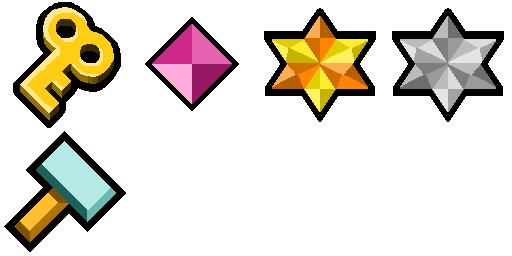
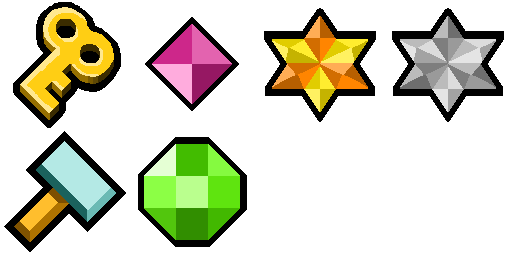
Emerald & stages 32-24

Changed region(s): [[0.25, 0.5312, 0.5, 0.9688]]

diff --git a/src/application/gamefield/BlackHole.java b/src/application/gamefield/BlackHole.java
@@ -37,7 +37,7 @@ public class BlackHole extends Crate {
 	@Override
 	protected boolean freeTileCheck(Stage stage, int x, int y) {
 		
-		return x > 1 && y > 1 && x < stage.getWidth() -1 && y < stage.getHeight()-1;
+		return x > 0 && y > 0 && x < stage.getWidth() -1 && y < stage.getHeight()-1;
 	}
 	
 	
@@ -50,7 +50,7 @@ public class BlackHole extends Crate {
 		// Update angle
 		angle += ROTATE_SPEED * tm;
 		
-		// Update soze
+		// Update size
 		sizeTimer += SIZE_SPEED * tm;
 	}
 	
@@ -63,6 +63,7 @@ public class BlackHole extends Crate {
 		
 		super(pos);
 		dieInLava = false;
+		immune = true;
 	}
 
 	
@@ -94,6 +95,6 @@ public class BlackHole extends Crate {
 	public void onMovingStopped(Stage stage, TimeManager tman) {
 		
 		stage.updateTileData(pos.x, pos.y, 0);
-		stage.updateSolidTileData(pos.x, pos.y, 2);
+		stage.updateSolidTileData(pos.x, pos.y, 16);
 	};
 }

diff --git a/src/application/gamefield/NonPlayerFieldObject.java b/src/application/gamefield/NonPlayerFieldObject.java
@@ -17,7 +17,6 @@ public abstract class NonPlayerFieldObject extends FieldObject {
 	/** Default death time */
 	protected static final float DEFAULT_DEATH_TIME = 30.0f;
 	
-	
 	/** Is dying */
 	protected boolean dying;
 	/** Death timer */
@@ -49,6 +48,20 @@ public abstract class NonPlayerFieldObject extends FieldObject {
 	 */
 	public abstract void playerCollision(Player pl, Gamepad vpad, Stage stage, TimeManager tman);
 
+	
+	/**
+	 * Check if in a black hole
+	 * @param stage Stage
+	 */
+	public void checkBlackHole(Stage stage) {
+		
+		// Check if in a black hole tile
+		if(stage.getSolidTile(pos.x, pos.y) == 16) {
+					
+			exist = false;
+		}
+	}
+	
 	
 	/**
 	 * Update death timer

diff --git a/src/application/gamefield/Stage.java b/src/application/gamefield/Stage.java
@@ -24,12 +24,12 @@ public class Stage {
 	/** Static solid tiles */
 	static final boolean[] STATIC_SOLID_TILES = new boolean[] {
 		true,false,true,true, false,false,true,false,  false, true, false, false,
-		true, true,
+		true, true, false, true,
 	};
 	/** Solid tiles */
 	static final boolean[] SOLID_TILES = new boolean[] {
-		true,true,true, true,false,false, true, false, false, true, false, false,
-		true, true,
+		true,true,true,true, false,false,true,false, false,true,false,false,
+		true, true, false, true,
 	};
 	
 	

diff --git a/src/application/gamefield/Star.java b/src/application/gamefield/Star.java
@@ -26,6 +26,11 @@ public class Star extends Collectible {
 	@Override
 	public void onUpdate(TimeManager tman, Stage stage) {
 		
+		if(!exist) return;
+		
+		// Check black hole
+		checkBlackHole(stage);
+		
 		// If turn limit broken, change to a gray star
 		if(tman.getTurn() > stage.getTurnLimit())
 			id = 3;
@@ -34,6 +39,8 @@ public class Star extends Collectible {
 
 	@Override
 	public void onPlayerCollision(Player pl,  Stage stage) {
+		
+		if(!exist) return;
 		
 		// End stage
 		stage.endStage();

diff --git a/src/application/gamefield/Crate.java b/src/application/gamefield/Crate.java
@@ -23,6 +23,8 @@ public class Crate extends NonPlayerFieldObject {
 	protected int sy = 0;
 	/** Die if in lava */
 	protected boolean dieInLava = true;
+	/** If immune to the black hole */
+	protected boolean immune = false;
 	
 
 	/**
@@ -137,6 +139,11 @@ public class Crate extends NonPlayerFieldObject {
 			
 			updateDeath(tm);
 			return;
+		}
+		if(!immune) {
+			
+			// Check black hole
+			checkBlackHole(stage);
 		}
 		
 		// If on special lava tile and not moving, die

diff --git a/src/application/gamefield/Emerald.java b/src/application/gamefield/Emerald.java
@@ -1,0 +1,25 @@
+package application.gamefield;
+
+import core.types.Point;
+
+public class Emerald extends Collectible {
+
+	/**
+	 * Constructor
+	 * @param pos Position
+	 */
+	public Emerald(Point pos) {
+		
+		super(pos);
+		id = 5;
+		animationMode = 1;
+	}
+	
+
+	@Override
+	public void onPlayerCollision(Player pl, Stage stage) {
+
+		// ...
+	}
+
+}

diff --git a/src/application/gamefield/Collectible.java b/src/application/gamefield/Collectible.java
@@ -75,6 +75,8 @@ public abstract class Collectible extends NonPlayerFieldObject {
 			updateDeath(tm);
 			return;
 		};
+		// Check black hole
+		checkBlackHole(stage);
 		
 		// Update timers
 		floatTimer += FLOAT_SPEED * tm;

diff --git a/src/application/gamefield/ObjectManager.java b/src/application/gamefield/ObjectManager.java
@@ -134,6 +134,12 @@ public class ObjectManager {
 				
 				objects.add(new Star(p));
 				break;
+				
+			// Emerald
+			case 19:
+				
+				objects.add(new Emerald(p));
+				break;
 	
 			default:
 				break;

diff --git a/src/application/gamefield/LavaContainer.java b/src/application/gamefield/LavaContainer.java
@@ -78,6 +78,8 @@ public class LavaContainer extends NonPlayerFieldObject {
 			
 			updateDeath(tm);
 		}
+		// Check black hole
+		checkBlackHole(stage);
 	}
 
 	

diff --git a/src/application/gamefield/Lock.java b/src/application/gamefield/Lock.java
@@ -71,6 +71,8 @@ public class Lock extends NonPlayerFieldObject {
 			
 			updateDeath(tm);
 		}
+		// Check black hole
+		checkBlackHole(stage);
 	}
 
 	
